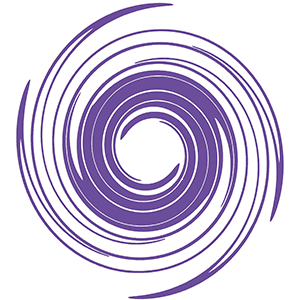
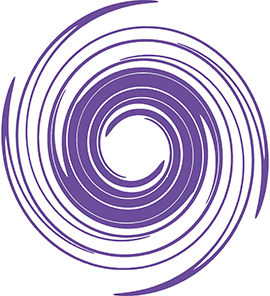
Prettify

diff --git a/lib/movingObject.js b/lib/movingObject.js
@@ -18,28 +18,6 @@
 
   MO.prototype = {
     
-    draw: function(ctx) {
-      ctx.fillStyle = this.color;
-      ctx.beginPath();
-      if (this.poly instanceof SAT.Circle) {
-        ctx.arc(this.poly.pos.x, this.poly.pos.y, 
-                this.poly.r, 0, 2*Math.PI,false);
-      } else if (this.poly instanceof SAT.Polygon) {
-        var pts = this.poly.calcPoints;
-     } else if (this.poly instanceof SAT.Box) {
-        var pts = this.poly.toPolygon().calcPoints;
-        ctx.moveTo(pts[0].x + this.pos.x, 
-                   pts[0].y + this.pos.y);
-        for(var i=1; i < pts.length; i++) {
-          ctx.lineTo(pts[i].x + this.pos.x, 
-                     pts[i].y + this.pos.y);
-        }
-      } else {
-        throw "Invalid Object Representation"
-      }
-      ctx.fill();
-    },
-
     move: function() {
       this.poly.pos.add(this.vel);
       var resp = new SAT.Response();

diff --git a/lib/block.js b/lib/block.js
@@ -3,7 +3,7 @@
     window.ShipOut = {};
   }
   var SO = window.ShipOut;
-  var Util = SO.Util;
+  var Util = SO.Util = SO.Util || {};
 
   var BLOCK_COLOR = "#44F";
   var BLOCK_WIDTH = Util.BLOCK_WIDTH = 81;
@@ -22,7 +22,21 @@
   };
   
   Block.prototype = {
-    draw: SO.MovingObject.prototype.draw,
+
+  draw: function(ctx) {
+    ctx.drawImage(SO.blockImage, 
+        this.pos.x, this.pos.y, BLOCK_WIDTH, BLOCK_HEIGHT);
+    var pts = this.poly.toPolygon().calcPoints;
+    ctx.beginPath();
+    ctx.moveTo(pts[0].x + this.pos.x, 
+        pts[0].y + this.pos.y);
+    for(var i=1; i < pts.length; i++) {
+      ctx.lineTo(pts[i].x + this.pos.x, 
+          pts[i].y + this.pos.y);
+    }
+    ctx.closePath();
+    ctx.stroke();
+  },
 
     move: function() { },
   }

diff --git a/lib/plank.js b/lib/plank.js
@@ -6,10 +6,10 @@
   var Util = SO.Util;
 
   var PLANK_COLOR = "#4F4";
-  var PLANK_WIDTH = 75;
-  var PLANK_HEIGHT = 10; 
+  var PLANK_WIDTH = 100;
+  var PLANK_HEIGHT = PLANK_WIDTH/4; 
   Util.PLANK_HEIGHT = PLANK_HEIGHT;
-  var INITIAL_BALL_SPEED = 3;
+  var INITIAL_BALL_SPEED = 4;
 
   var Plank = SO.Plank = function(box) {
     var newBox = {color: PLANK_COLOR, vel: new SAT.Vector(0,0), 
@@ -45,6 +45,11 @@
       Util.fudgeVector(box.vel)
       this.game.ball = new SO.Ball(box);
     }
+  };
+
+  Plank.prototype.draw = function(ctx) {
+    ctx.drawImage(SO.plankImage, 
+        this.pos.x, this.pos.y, PLANK_WIDTH, PLANK_HEIGHT);
   };
 
 })();

diff --git a/lib/ball.js b/lib/ball.js
@@ -50,4 +50,11 @@
     this.game.lives = (this.game.lives && this.game.lives -1) || 0;
     this.game.ball = undefined;
   };
+
+  Ball.prototype.draw = function(ctx) {
+    var r = this.poly.r;
+    ctx.drawImage(SO.ballImage, 
+        this.pos.x - r, this.pos.y - r, 2*r, 2*r);
+  }
+
 })();

diff --git a/lib/game.js b/lib/game.js
@@ -86,6 +86,8 @@
       ctx.clearRect(0, 0, DIM_X, DIM_Y);
       ctx.fillStyle= BG_COLOR;
       ctx.fillRect(0,0, DIM_X, DIM_Y);
+      ctx.drawImage(SO.backgroundImage, 
+          0, 0, DIM_X, DIM_Y);
       this.objects().forEach(function(object) {
         object.draw(ctx);
       });

diff --git a/lib/utils.js b/lib/utils.js
@@ -2,7 +2,7 @@
   if(typeof window.ShipOut === "undefined") {
     window.ShipOut = {};
   }
-  var Util = window.ShipOut.Util = {};
+  var Util = window.ShipOut.Util = window.ShipOut.Util || {};
 
   Util.inherits = function(SubClass, SuperClass) {
     function Surrogate() {

diff --git a/lib/whirlpool.js b/lib/whirlpool.js
@@ -23,7 +23,7 @@
 
   Whirlpool.prototype.draw = function(ctx) {
     var r = this.poly.r;
-    ctx.drawImage(SO.whirlpoolImage, 0, 0, 218, 218, 
+    ctx.drawImage(SO.whirlpoolImage, 
         this.pos.x - r, this.pos.y - r, 2*r, 2*r);
-  }
+  };
 })();
